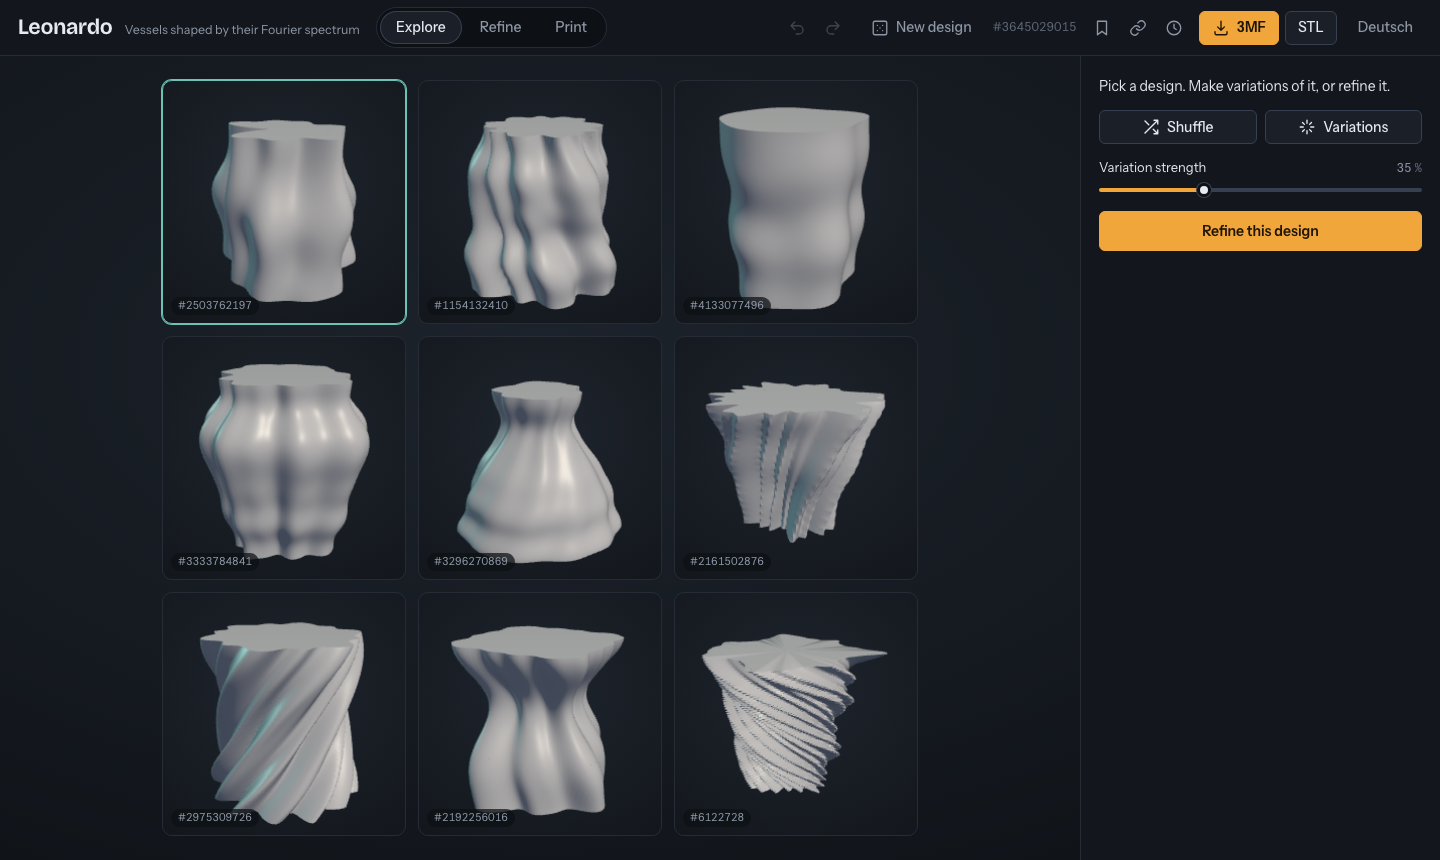
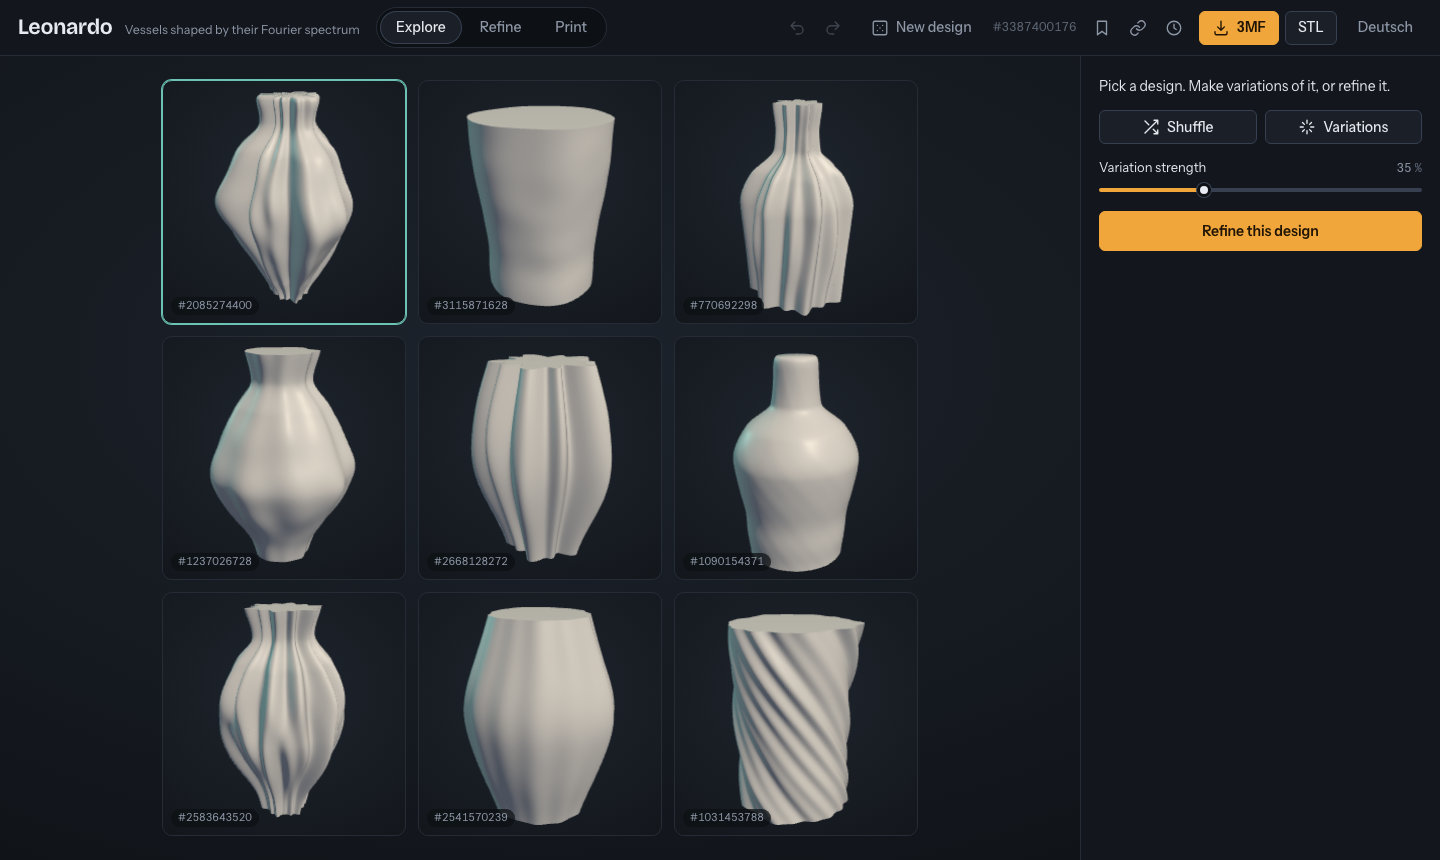
docs: changelog 3.1.0, readme and screenshots for forms and filament

diff --git a/e2e/flow.spec.ts b/e2e/flow.spec.ts
@@ -22,6 +22,12 @@ test('explore, refine, print and download watertight files', async ({ page }) =>
   await page.getByRole('button', { name: 'Refine this design' }).click();
 
   await expect(page.getByRole('img', { name: 'Spectrum' })).toBeVisible();
+  await page.locator('.archetype', { hasText: 'Bottle' }).click();
+  await page.locator('.seg', { hasText: 'Round' }).click();
+  const heatmap = page.getByRole('img', { name: 'Spectrum' });
+  const box = (await heatmap.boundingBox())!;
+  await page.mouse.move(box.x + box.width * 0.2, box.y + box.height * 0.9);
+  await expect(page.getByTestId('spectrum-status')).toHaveText(/^k \d+ · m \d+/);
   const bulge = page.getByLabel('Bulge');
   await bulge.focus();
   await page.keyboard.press('ArrowRight');
@@ -30,12 +36,14 @@ test('explore, refine, print and download watertight files', async ({ page }) =>
   await page.getByRole('tab', { name: 'Print' }).click();
   await page.getByText('Hollow', { exact: true }).click();
   await expect(page.getByLabel('Wall')).toBeVisible();
+  await page.getByRole('radio', { name: 'Cyan' }).check({ force: true });
 
   const [threeMf] = await Promise.all([page.waitForEvent('download'), page.getByRole('button', { name: /3MF/ }).click()]);
   expect(threeMf.suggestedFilename()).toMatch(/^leonardo-\d+-hollow\.3mf$/);
   const files = unzipSync(await bytes(threeMf));
   const model = strFromU8(files['3D/3dmodel.model']);
   expect(model).toContain('unit="millimeter"');
+  expect(model).toContain('displaycolor="#0086D6FF"');
   expect(model.match(/<triangle /g)!.length).toBeGreaterThan(100_000);
 
   const [stl] = await Promise.all([page.waitForEvent('download'), page.getByRole('button', { name: 'STL', exact: true }).click()]);

diff --git a/README.md b/README.md
@@ -1,9 +1,10 @@
 # Leonardo
 
-Leonardo designs printable vessels from their Fourier spectrum. The shape is a radius
-field `r(h, φ)`. A cosine series runs up the height and a Fourier series goes around the
-rim. Every design is a small grid of coefficients, and summing them back gives the
-surface. The background is in [docs/fourier-reconstruction.md](docs/fourier-reconstruction.md).
+Leonardo designs printable vessels from their Fourier spectrum. Each design starts from
+a form: a profile with proportion, rim and foot. A spectrum of the log radius sits on
+top of it, `r(h, φ) = form(h) · exp(Σ (C cos mφ + S sin mφ) cos(πkh))`. A cosine series
+runs up the height and a Fourier series goes around the rim. The background is in
+[docs/fourier-reconstruction.md](docs/fourier-reconstruction.md).
 
 The app runs fully in the browser and needs no server. It exports watertight,
 millimetre-scaled STL and 3MF files, ready for Bambu Studio or any other slicer.
@@ -18,8 +19,11 @@ millimetre-scaled STL and 3MF files, ready for Bambu Studio or any other slicer.
    nine designs near it. **Variation strength** sets how far they stray. Press Space
    to shuffle.
 2. **Refine** has these controls:
+   - **Form**: cylinder, tumbler, vase, bottle, bowl, lantern or amphora, plus
+     proportion, rim (flat, round, flared) and foot.
    - **Spectrum editor**: a heatmap of the coefficient grid. Rows are height
      frequencies (k), columns are rim frequencies (m).
+     - Hover a cell to see what it shapes on the model.
      - Drag the corner to keep fewer terms (K × M truncation).
      - Use **Boost** or **Damp** to paint gains onto single frequencies.
    - **Shape**: bulge, flutes, detail, symmetry and ribs.
@@ -31,8 +35,9 @@ millimetre-scaled STL and 3MF files, ready for Bambu Studio or any other slicer.
      - **Vase mode**: closed, for spiral vase printing.
      - **Hollow**: real walls and floor.
      - **Planter**: hollow, with a drainage hole.
+   - Choose a **filament** colour and finish. The colour goes into the 3MF.
    - Read the estimates: size, volume, PLA grams and overhang area. **Show overhangs**
-     paints faces that lean more than 45°.
+     paints faces that lean more than 45°, and **View from below** shows the underside.
 4. **3MF** and **STL** download the export-resolution mesh. It is built in a Web
    Worker.
 

diff --git a/CHANGELOG.md b/CHANGELOG.md
@@ -7,6 +7,49 @@ All notable changes to this project are documented here. The format follows
 Because a seed maps to a design through the geometry code, any change that
 alters what a seed produces is a **major** release.
 
+## [3.1.0] - 2026-10-15
+
+### Changed (breaking)
+
+Seeds and links from 3.0 produce different shapes. 3.0 links still open; they load as
+cylinders with the old proportions.
+
+- **Form language.** Every design starts from one of seven forms: cylinder, tumbler,
+  vase, bottle, bowl, lantern or amphora.
+  - **Proportion** runs from slender to squat.
+  - **Rim** is flat, round or flared. On hollow and planter bodies a round rim is a
+    real half-round lip.
+  - **Foot** adds an optional pedestal.
+- **Spectrum on the log radius.** The spectrum now describes the log of the radius on
+  top of the form, and extreme detail is softly limited.
+  - Deep flutes become ridges instead of flat star plateaus or thin fins.
+  - Random designs favour symmetric flutes.
+
+### Added
+
+- **Spectrum editor.**
+  - Tick labels.
+  - A hover readout of k, m and strength.
+  - While you hover a cell, the 3D model is tinted with what that frequency does.
+  - Boost (×1.6) and Damp (×0.5) are stronger, and Boost now works on empty cells.
+- **Filament.** 13 approximate PLA colours and three finishes (matte, basic, silk),
+  shown in the viewport and the thumbnails. The colour is written into the 3MF as a
+  base material.
+- **Viewport.**
+  - Turntable toggle.
+  - Overhang chip and "View from below".
+  - Loading state while the 3D view loads.
+- **Export.** The buttons show when an export is running; a second click does not
+  start a second export.
+- **Explore.** Variation tiles are labelled Parent and Variation 1–8.
+
+### Fixed
+
+- The overhang and tint colours were never visible because the material did not
+  update when vertex colours were switched on.
+- Opening an Explore tile no longer resets your filament, body and printer settings.
+- The "Built with Netlify" badge no longer covers controls.
+
 ## [3.0.0] - 2026-10-15
 
 ### Changed (breaking)
